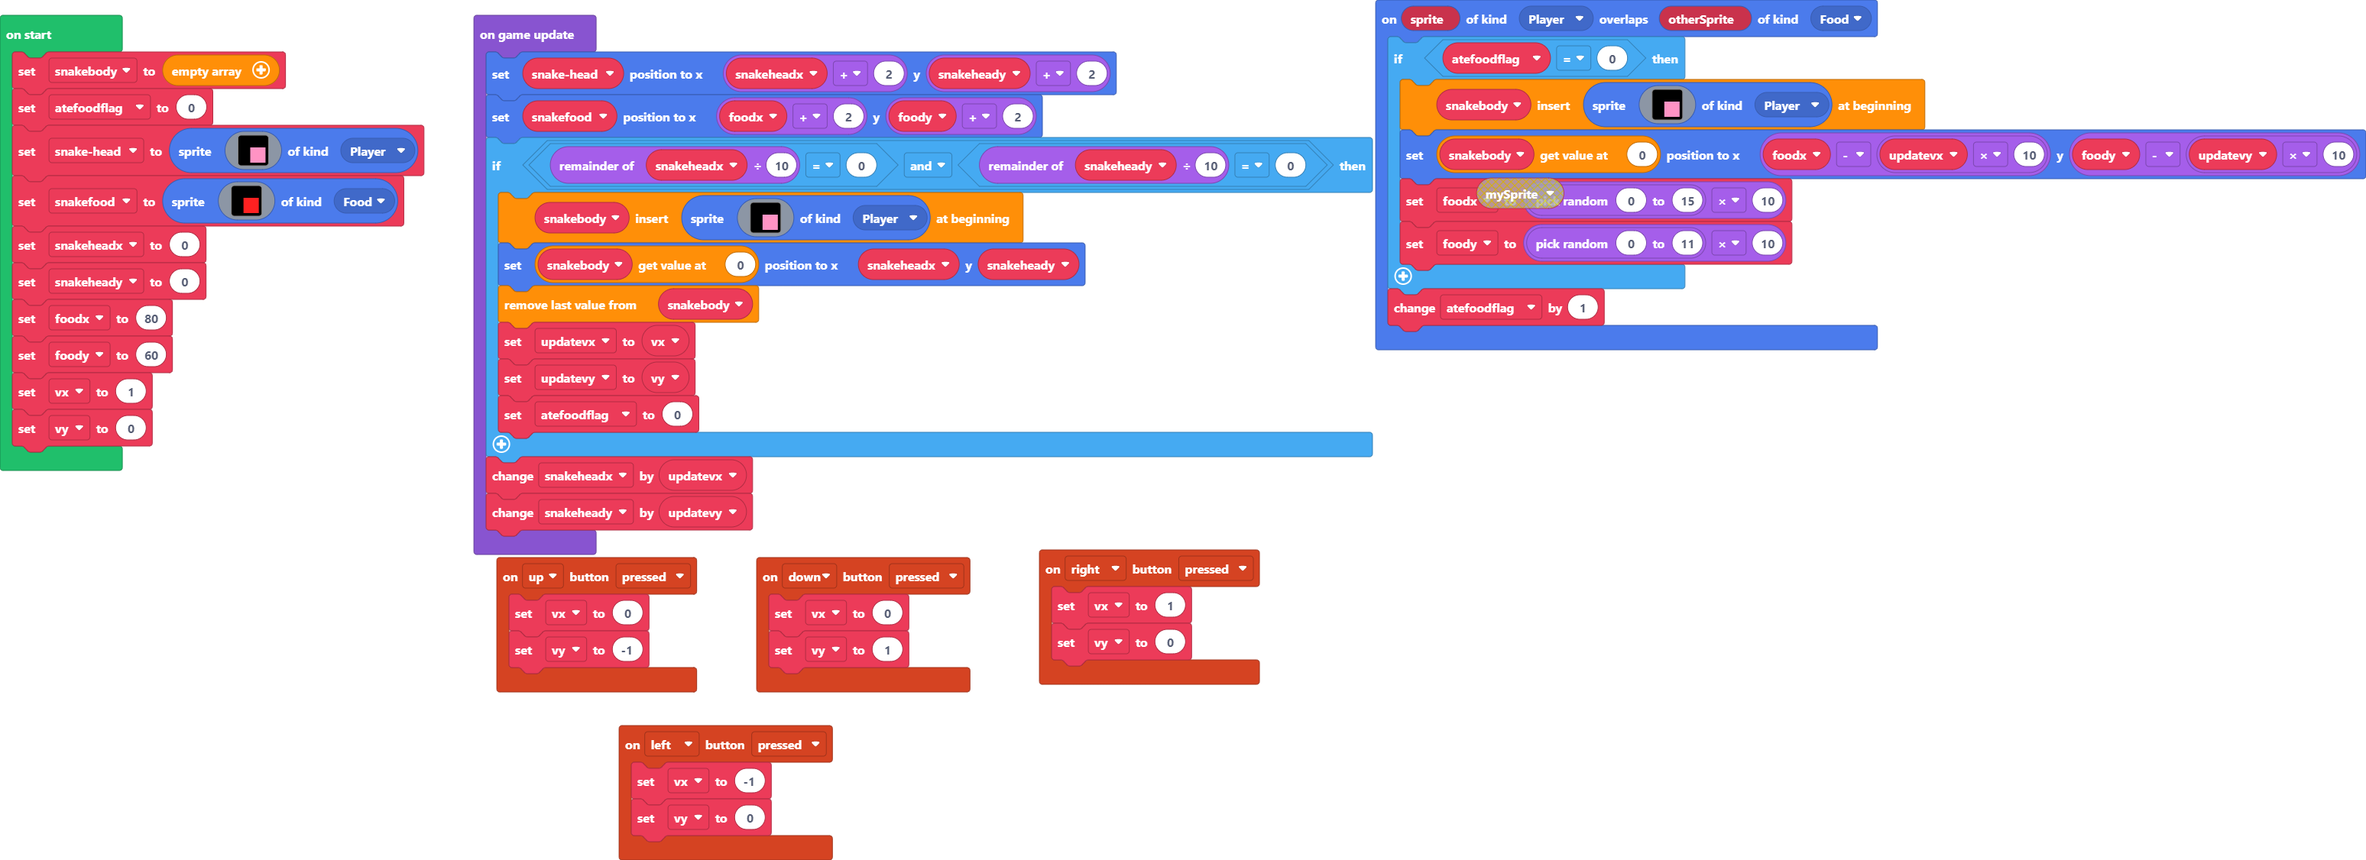
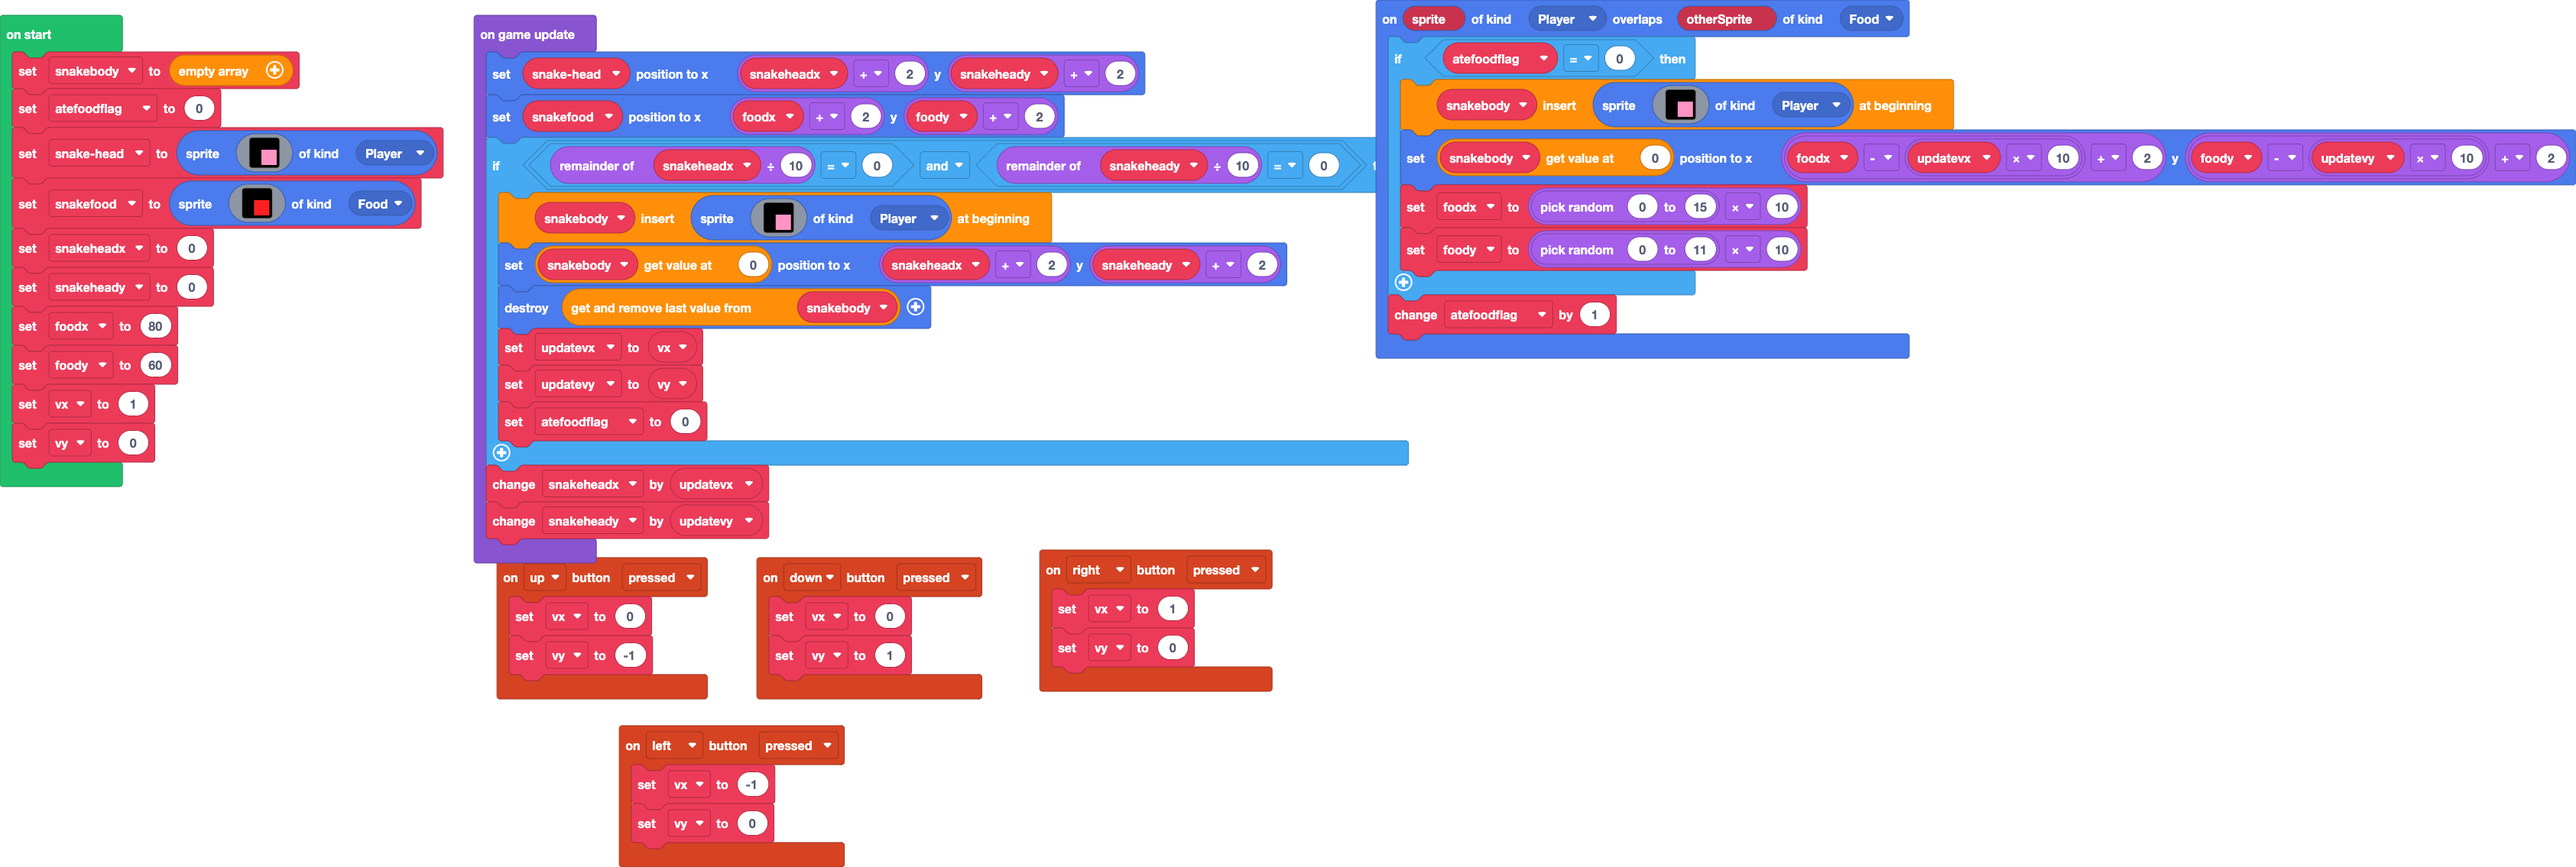
fixthesnakebody

Changed region(s): [[0.0, 0.0, 1.0, 1.0]]

diff --git a/main.ts b/main.ts
@@ -34,7 +34,7 @@ sprites.onOverlap(SpriteKind.Player, SpriteKind.Food, function (sprite, otherSpr
             . . . . . . 3 3 3 3 3 3 3 3 3 3 
             . . . . . . 3 3 3 3 3 3 3 3 3 3 
             `, SpriteKind.Player))
-        snakebody[0].setPosition(foodx - updatevx * 10, foody - updatevy * 10)
+        snakebody[0].setPosition(foodx - updatevx * 10 + 2, foody - updatevy * 10 + 2)
         foodx = randint(0, 15) * 10
         foody = randint(0, 11) * 10
     }
@@ -114,8 +114,8 @@ game.onUpdate(function () {
             . . . . . . 3 3 3 3 3 3 3 3 3 3 
             . . . . . . 3 3 3 3 3 3 3 3 3 3 
             `, SpriteKind.Player))
-        snakebody[0].setPosition(snakeheadx, snakeheady)
-        snakebody.pop()
+        snakebody[0].setPosition(snakeheadx + 2, snakeheady + 2)
+        snakebody.pop().destroy()
         updatevx = vx
         updatevy = vy
         atefoodflag = 0
